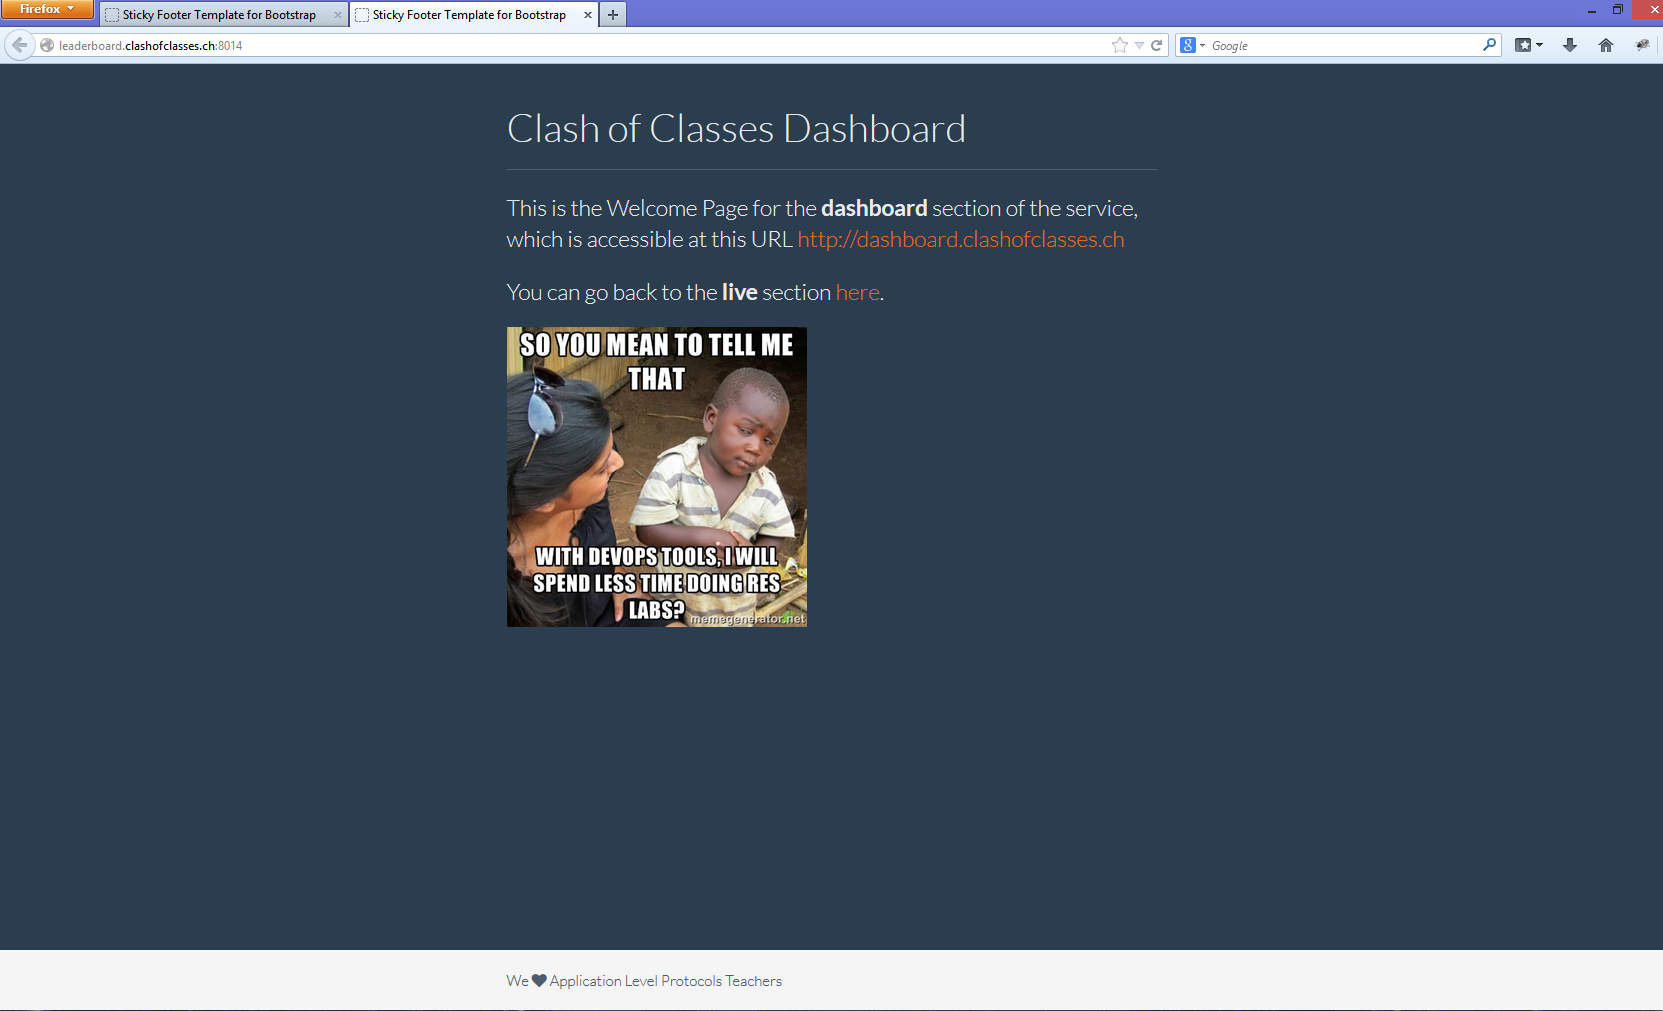
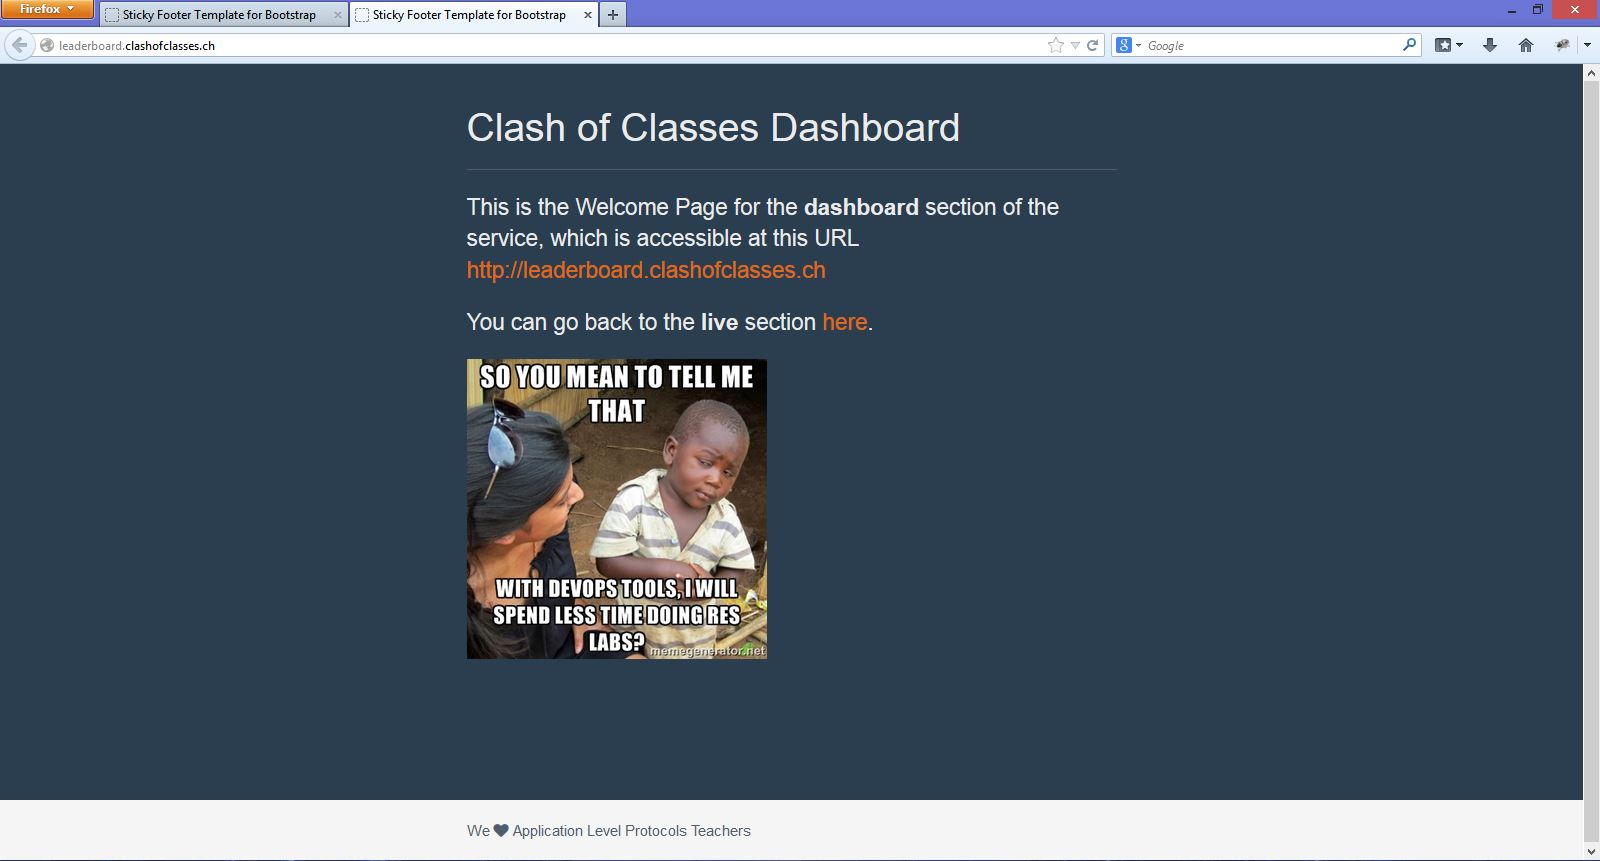
version finale

Changed region(s): [[0.0, 0.0, 1.0, 1.0], [0.2812, 0.1208, 0.6875, 0.7851]]

diff --git a/README.md b/README.md
@@ -11,16 +11,21 @@ This repo is used for the Web Infrastructure lab. Fork and clone it.
 3. Contenu du fichier host :
 
 	192.168.33.20	www.monsys.com
+
 	192.168.33.20	live.clashofclasses.ch
+
 	192.168.33.20	leaderboard.clashofclasses.ch 
+
 
 4. Etat des lieux :
 
-Tout fonctionne correctement
+Tout fonctionne correctement, nous sommes arrivés au bout du labo.
 
-5. Capture d'écrant : 
+5. Capture d'écran : 
 
-cf Answers-Phase1
+![](/img/live.jpg)
+
+![](/img/leader.jpg)
 
 6. Fichiers modifiés :
 
@@ -28,11 +33,8 @@ monsys-web-infra/Vagranfile : modification pour avoir trois dockers de plus + ch
 
 monsys-web-infra/docker : ajout d'un dossier web-clash qui est au départ une copie de web-apache
 
-monsys-web-infra/docker/web-clash/site-config : ajout de leaderborad.clashofclasses.ch.conf et de live.clashofclasses.ch. Ces fichiers contiennent les configurations des deux virtual host.
+monsys-web-infra/docker/web-clash/site-config : ajout de leaderboard.clashofclasses.ch.conf et de live.clashofclasses.ch.conf Ces fichiers contiennent les configurations des deux virtual host, utilisés par les les dockers web-clash.
 
 monsys-web-infra/docker/web-clash/site-content : création de deux répertoires : leaderboard.clashofclasses.ch et live.clashofclasses.ch. Ils contiennent le contenu des deux sites.
 
-monsys-web-infra/docker/rp-nginx/etc/nginx/sites-enables : modification du fichier default. Modification pour faire fonctionner les deux sites.
-
-7. Remarque :
-Nous avons utilisé le port 8014 au lieu du port 80.
+monsys-web-infra/docker/rp-nginx/etc/nginx/sites-enables : modification du fichier default, pour faire fonctionner les deux sites supplémentaires.

diff --git a/Answers-Phase1.md b/Answers-Phase1.md
@@ -773,7 +773,7 @@ Affichage de leaderboard.clashofclasses.ch dans un navigateur
 
 Telnet :
 	
-	telnet live.clashofclasses.ch 8014
+	telnet live.clashofclasses.ch 80
 	GET / HTTP/1.1
 	HOST:live.clashoftclasses.ch
 
@@ -855,8 +855,9 @@ Telnet :
 	  </body>
 	</html>
 	
+leaderborad :
 
-	telnet leaderboard.clashofclasses.ch 8014
+	telnet leaderboard.clashofclasses.ch 80
 	GET / HTTP/1.1
 	HOST:leaderboard.clashoftclasses.ch
 
